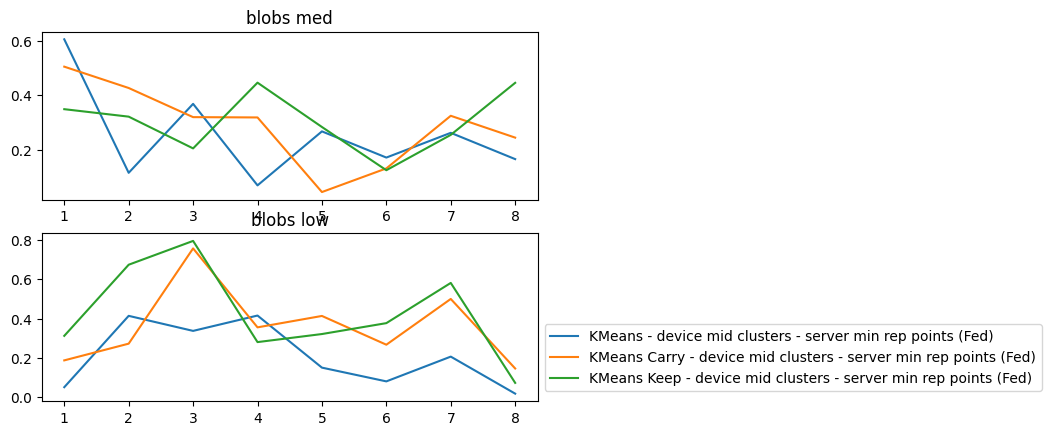
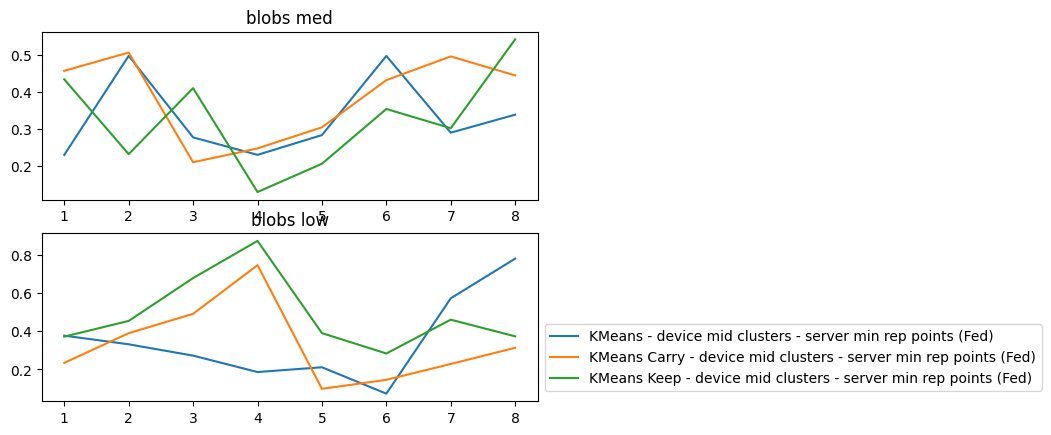
Just some charts

diff --git a/Testing/testing.py b/Testing/testing.py
@@ -14,10 +14,13 @@ import random
 random.seed(242)
 np.random.rand(242)
 
-ENABLE_PLOTS = False
+ENABLE_PLOTS = True
 ENABLE_PRINTS = False
 ENABLE_PROGRESS = True
 ENABLE_ROUND_PROGRESS_PLOT = False
+
+CURRENT_FILE_NAME = None
+
 
 
 class DataSetCollection:
@@ -212,19 +215,22 @@ class DeviceSuite:
 
     def run_rounds_with_accuracy(self, num_devices_per_group_per_round, data, labels):
         round_accs = []
+        run_num = 1
         for num_devices_per_group in num_devices_per_group_per_round:
             self.server.run_round(num_devices_per_group)
             if ENABLE_ROUND_PROGRESS_PLOT or ENABLE_PRINTS: 
-                acc = self.accuracy(data, labels)
+                acc = self.accuracy(data, labels, run_num)
                 round_accs.append(acc)
             if ENABLE_PRINTS: print("Accuracy: ", acc)
+            run_num += 1
         return round_accs
 
-    def accuracy(self, data, labels):
+    def accuracy(self, data, labels, run_num = 1):
         pred_labels = self.server.classify(data)
         if ENABLE_PLOTS:
             plt.scatter(data[:, 0], data[:, 1], c=pred_labels, s=1)
-            plt.show()
+            # plt.show()
+            plt.savefig('Plots/' + CURRENT_FILE_NAME + "-round-" + str(run_num) + '.png')
         return metrics.adjusted_rand_score(labels, pred_labels)
 
 
@@ -347,7 +353,9 @@ def run_test_and_save(
         number_of_rounds,
         num_devices_per_group_per_round,
     ): 
+    global CURRENT_FILE_NAME
     if ENABLE_PRINTS: print(test["name"] + ":", data_set_name + "-" + level)
+    CURRENT_FILE_NAME = test["name"] + ":" + data_set_name + "-" + level
     (result_dict["end"].value,round_accs) = custom(
             test["server"], test["device"],
             data_set = data_set,
